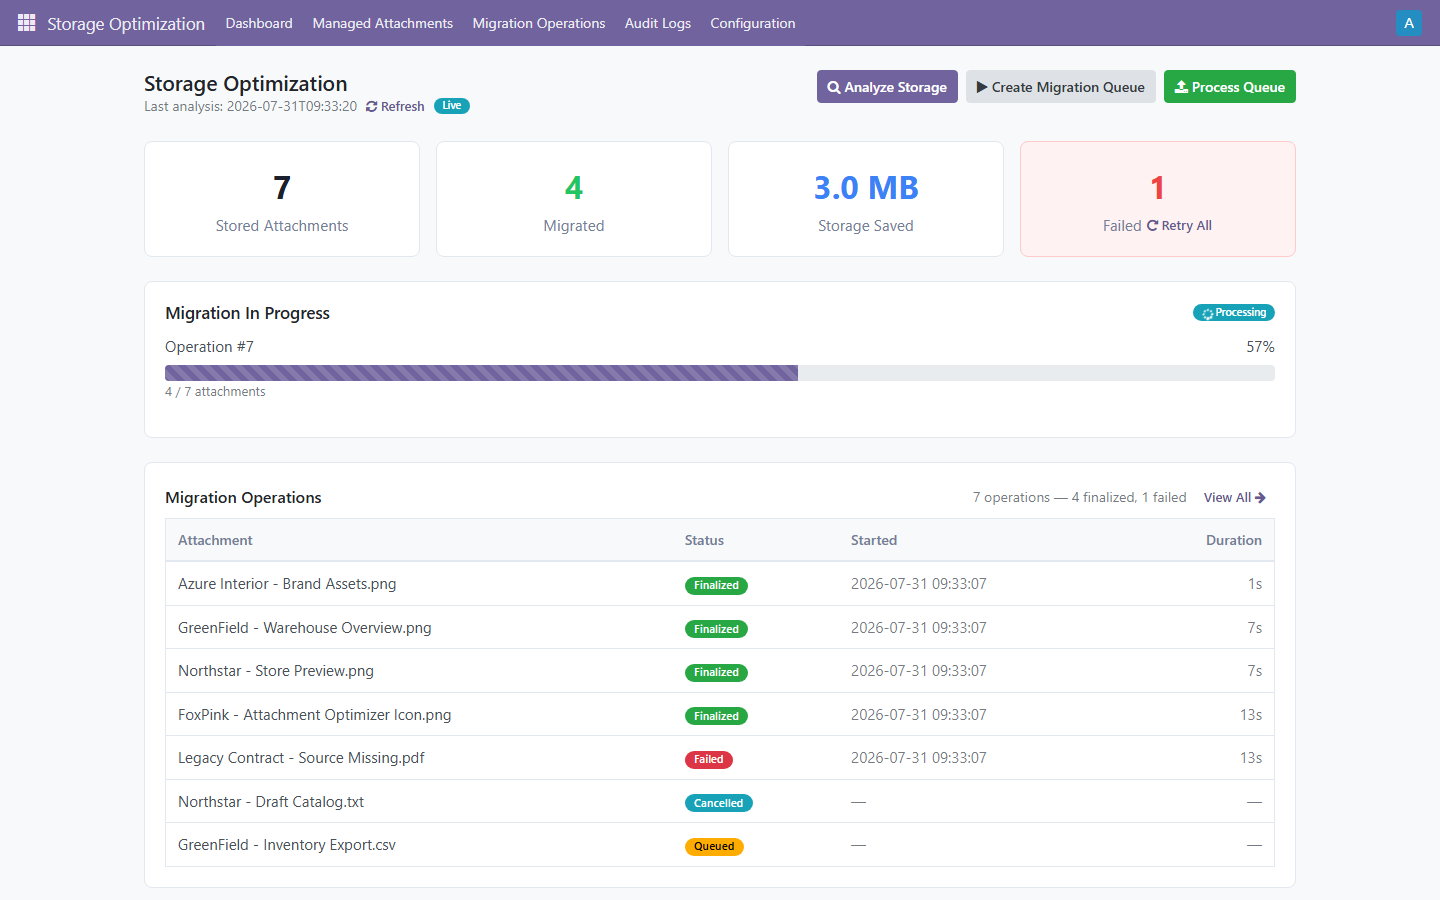
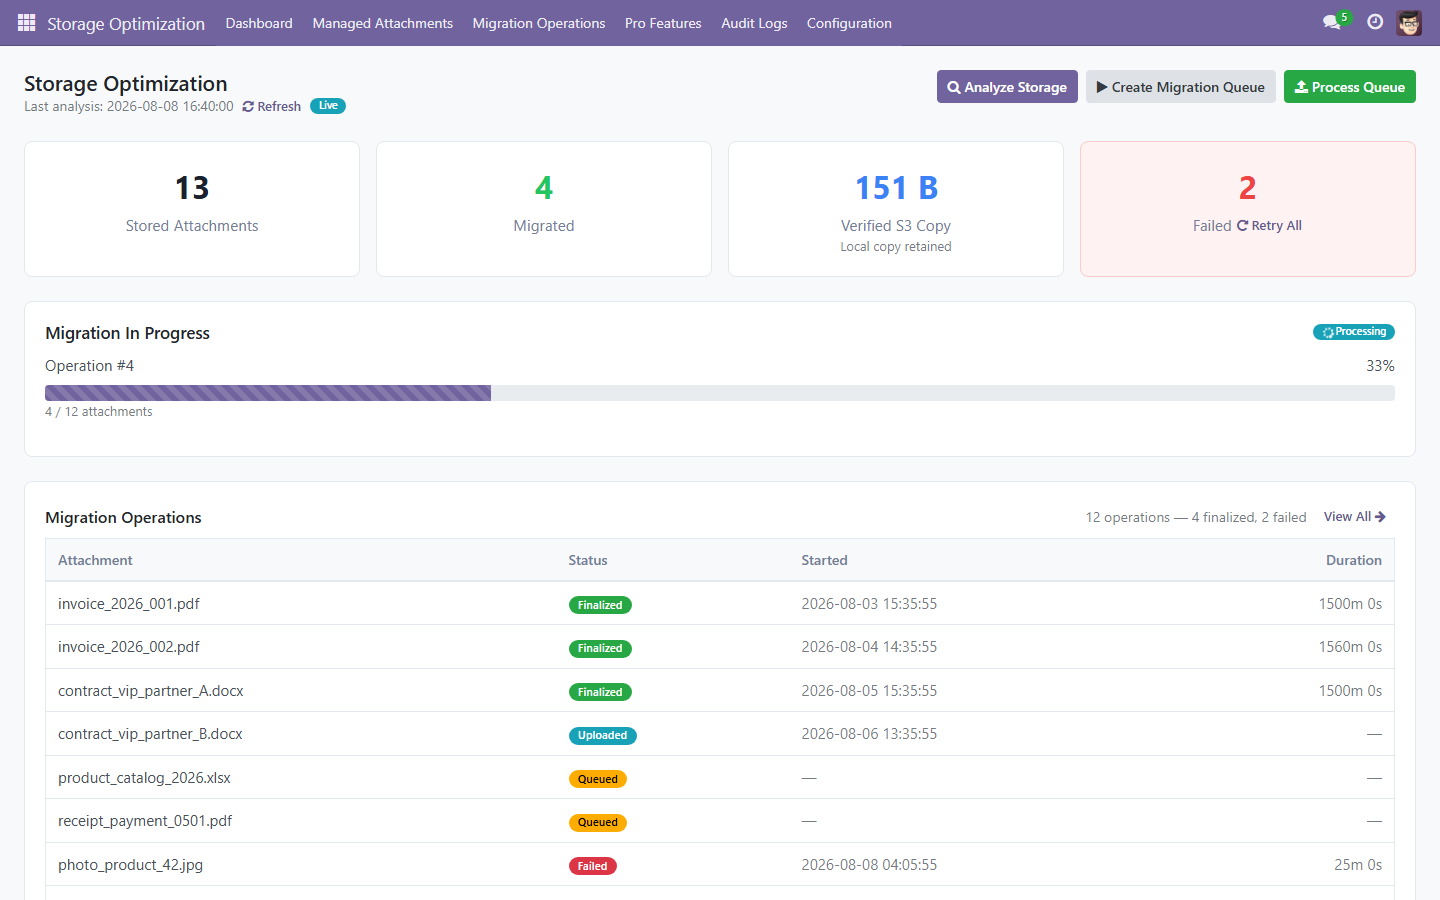
Harden full-width dashboard and refresh screenshot

diff --git a/attachment_optimizer/static/src/components/dashboard/dashboard.scss b/attachment_optimizer/static/src/components/dashboard/dashboard.scss
@@ -7,6 +7,12 @@
     position: relative;
 }
 
+html .o_web_client .o_action_manager .o_dashboard {
+    width: 100%;
+    max-width: none;
+    margin: 0;
+}
+
 html .o_web_client > .o_action_manager {
     overflow-y: auto;
     overflow-x: hidden;
@@ -77,7 +83,7 @@ html .o_web_client > .o_action_manager {
 /* KPI Cards */
 .o_kpi_row {
     display: grid;
-    grid-template-columns: repeat(4, 1fr);
+    grid-template-columns: repeat(4, minmax(0, 1fr));
     gap: 16px;
     margin-bottom: 24px;
 }
@@ -412,4 +418,20 @@ html .o_web_client > .o_action_manager {
 @media (max-width: 600px) {
     .o_pro_upgrade_banner { align-items: stretch; flex-direction: column; }
     .o_pro_upgrade_banner .btn { min-height: 44px; }
+}
+
+@media (max-width: 1100px) {
+    .o_kpi_row { grid-template-columns: repeat(2, minmax(0, 1fr)); }
+}
+
+@media (max-width: 768px) {
+    .o_dashboard { padding: 16px; }
+    .o_dashboard_header { flex-direction: column; gap: 16px; }
+    .o_dashboard_actions { width: 100%; }
+    .o_dashboard_actions .btn { flex: 1; min-height: 44px; }
+}
+
+@media (max-width: 480px) {
+    .o_kpi_row { grid-template-columns: 1fr; }
+    .o_dashboard_actions { flex-direction: column; }
 }

diff --git a/attachment_optimizer/static/description/index.html b/attachment_optimizer/static/description/index.html
@@ -271,7 +271,7 @@
                 Licensed under LGPL-3 &mdash; free to use, modify and distribute.
             </p>
             <div style="display:inline-block; border:2px solid #4f46e5; color:#4f46e5; font-weight:700; font-size:13px; padding:10px 28px; border-radius:8px; letter-spacing:0.2px;">github.com/FoxPinkHQ/attachment-optimizer</div>
-            <p style="font-size:11px; color:#94a3b8; margin:20px 0 0;">Version 17.0.1.0.7 &middot; Built and maintained by FoxPink</p>
+            <p style="font-size:11px; color:#94a3b8; margin:20px 0 0;">Version 17.0.1.0.8 &middot; Built and maintained by FoxPink</p>
         </div>
 
     </div>

diff --git a/attachment_optimizer/__manifest__.py b/attachment_optimizer/__manifest__.py
@@ -1,6 +1,6 @@
 {
     "name": "Attachment Optimizer",
-    "version": "17.0.1.0.7",
+    "version": "17.0.1.0.8",
     "category": "Storage",
     "summary": "Safely replicate and serve Odoo attachments from S3-compatible storage.",
     "description": """

diff --git a/README.md b/README.md
@@ -4,7 +4,7 @@
 
 ![Attachment Optimizer](attachment_optimizer/static/description/preview.png)
 
-**Version:** 17.0.1.0.7 -- **License:** LGPL-3 -- **Publisher:** FoxPink -- Maintained for **Odoo 14.0-19.0** (one validated build per series)
+**Version:** 17.0.1.0.8 -- **License:** LGPL-3 -- **Publisher:** FoxPink -- Maintained for **Odoo 14.0-19.0** (one validated build per series)
 
 ---
 
